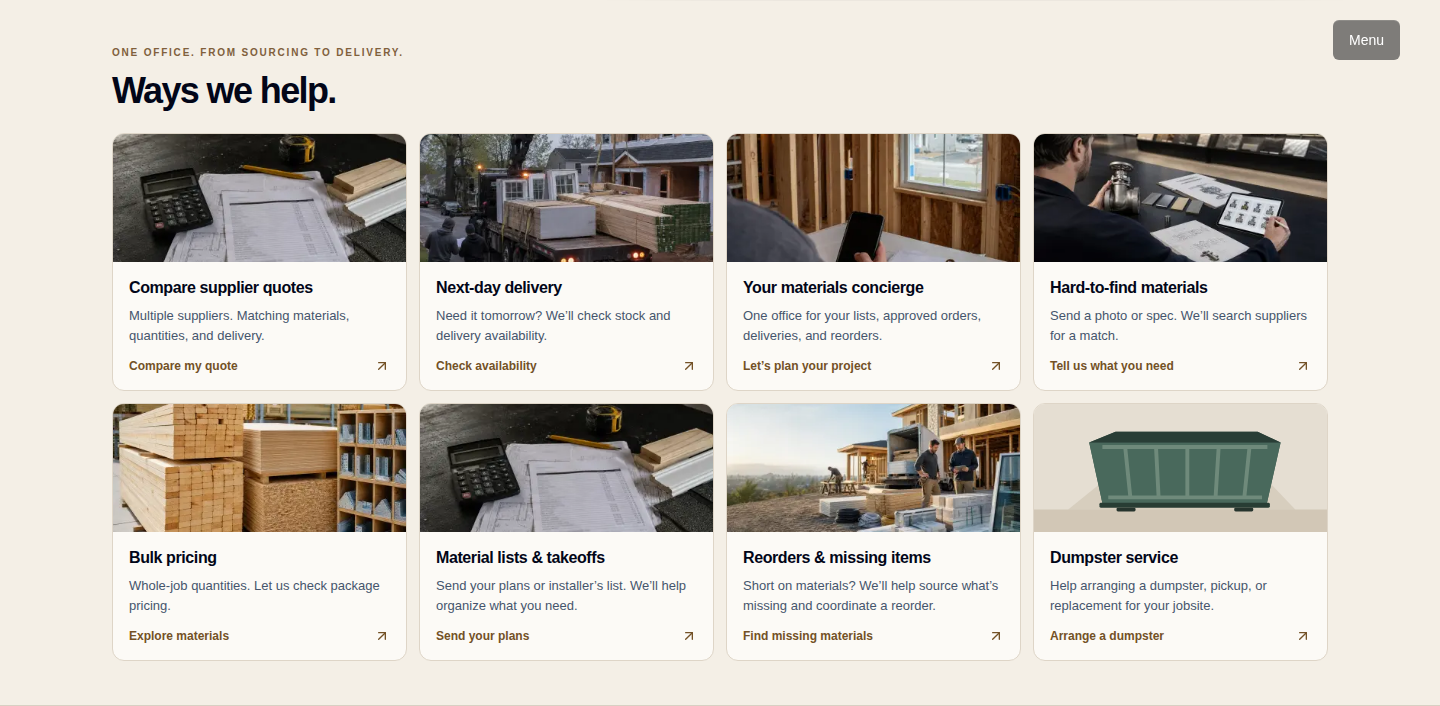
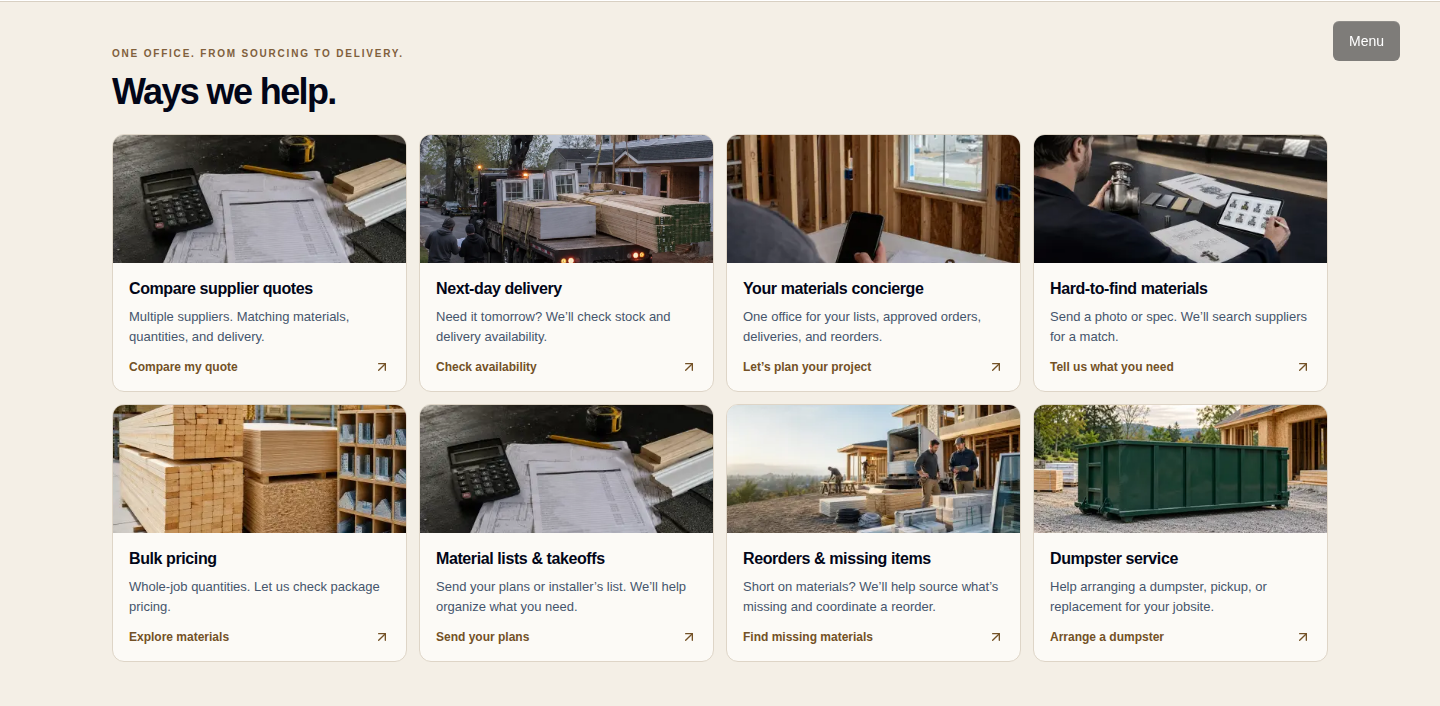
Simplify homepage media and shorten mobile hero

diff --git a/components/buildflow/homepage-concept-preview.tsx b/components/buildflow/homepage-concept-preview.tsx
@@ -2,7 +2,7 @@
 
 import Image from "next/image"
 import Link from "next/link"
-import { ArrowUpRight, CalendarDays, Check, ChevronDown, MapPin, MessageSquareText, Pause, Play, Send, Upload } from "lucide-react"
+import { ArrowUpRight, CalendarDays, Check, ChevronDown, MapPin, Pause, Play, Send, Upload } from "lucide-react"
 import { useEffect, useRef, useState } from "react"
 
 import { AVANTIA_QUO_CALLER_ID } from "@/lib/aura/phone-links"
@@ -29,7 +29,7 @@ const concepts = [
 ] as const
 
 const reviewHeroPhotos = [
-  { src: "/images/buildflow-homepage/hero-material-yard-v4.webp", position: "object-[66%_center]", label: "Framing lumber and structural materials" },
+  { src: "/images/buildflow-homepage/process-delivery-v4.webp", position: "object-[60%_center]", label: "Framing lumber delivered to a residential construction site" },
   { src: "/images/buildflow-homepage/hero-long-island-home-v4.webp", position: "object-[62%_center]", label: "A Long Island house under construction" },
   { src: "/images/buildflow-homepage/hero-exterior-materials-v4.webp", position: "object-[68%_center]", label: "Exterior building materials staged at a Long Island home" },
 ] as const
@@ -42,7 +42,7 @@ const reviewServices = [
   { title: "Bulk pricing", description: "Whole-job quantities. Let us check package pricing.", href: "/shop", image: "/images/buildflow-retail/framing-materials-yard.webp", action: "Explore materials" },
   { title: "Material lists & takeoffs", description: "Send your plans or installer’s list. We’ll help organize what you need.", href: "/request-quote", image: "/images/buildflow-homepage/service-beat-quote-v4.webp", action: "Send your plans" },
   { title: "Reorders & missing items", description: "Short on materials? We’ll help source what’s missing and coordinate a reorder.", href: "/request-quote", image: "/images/buildflow-retail/avantia-jobsite-material-delivery-v2.webp", action: "Find missing materials" },
-  { title: "Dumpster service", description: "Help arranging a dumpster, pickup, or replacement for your jobsite.", href: "/request-quote", image: "/images/buildflow-homepage/dumpster-service.svg", action: "Arrange a dumpster" },
+  { title: "Dumpster service", description: "Help arranging a dumpster, pickup, or replacement for your jobsite.", href: "/request-quote", image: "/images/buildflow-homepage/dumpster-service-v2.png", action: "Arrange a dumpster" },
 ] as const
 
 const reviewReasons = [
@@ -96,7 +96,6 @@ function MobileBookingBar() {
 }
 
 function HomepageReviewSections() {
-  const [videoRequested, setVideoRequested] = useState(false)
 
   return <>
     <section className="border-b border-[#e3ddd3] bg-[#f4efe6] px-6 py-12 text-slate-950" aria-labelledby="meeting-overview-heading">
@@ -141,31 +140,6 @@ function HomepageReviewSections() {
         Serving all 50 states
       </p>
     </div>
-
-    <section className="overflow-hidden bg-[#f4efe6] px-5 py-14 text-slate-950 [content-visibility:auto] [contain-intrinsic-size:auto_50rem] sm:px-8 sm:py-20" aria-labelledby="text-request-heading">
-      <div className="mx-auto grid max-w-6xl items-center gap-9 lg:grid-cols-[0.82fr_1.18fr] lg:gap-16">
-        <div className="max-w-lg">
-          <h2 id="text-request-heading" className="text-4xl font-semibold leading-[0.94] tracking-[-0.055em] text-balance sm:text-6xl">Tell us what you need.</h2>
-          <p className="mt-5 max-w-md text-sm font-semibold leading-6 text-slate-600 sm:text-base">Let’s identify what’s taking up your time and build a plan for what Avantia can handle for you. Start with a free 15-minute consultation.</p>
-          <Link href={CONSULTATION_PATH} className="mt-7 inline-flex min-h-12 items-center gap-2 border-b-2 border-slate-950 text-sm font-black text-slate-950 transition hover:border-[#1677ff] hover:text-[#1677ff]">
-            Schedule a Meeting <ArrowUpRight className="h-4 w-4" aria-hidden="true" />
-          </Link>
-        </div>
-
-        <div className="relative mx-auto w-full max-w-2xl overflow-hidden rounded-[2rem] border border-white/70 bg-slate-950 p-2 shadow-[0_35px_90px_rgba(15,23,42,.2)]">
-          <div className="relative aspect-[4/5] overflow-hidden rounded-[1.55rem] bg-slate-900 sm:aspect-[16/10]">
-            <video key={videoRequested ? "playing" : "poster"} autoPlay={videoRequested} muted loop playsInline preload="none" poster="/images/buildflow-homepage/process-text-request-v6.webp" className="h-full w-full object-cover object-center" aria-label="A contractor texts a same-day material list and receives the delivery at the jobsite">
-              {videoRequested ? <source src="/videos/homepage-material-process-v2.mp4" type="video/mp4" /> : null}
-            </video>
-            {!videoRequested ? <button type="button" onClick={() => setVideoRequested(true)} className="absolute inset-0 z-10 flex items-center justify-center bg-black/10 text-white focus-visible:outline-none focus-visible:ring-4 focus-visible:ring-inset focus-visible:ring-white/80" aria-label="Play material request video"><span className="inline-flex min-h-12 items-center gap-2 rounded-full border border-white/50 bg-black/65 px-5 text-sm font-bold backdrop-blur-md"><Play className="h-4 w-4 fill-current" />Play video</span></button> : null}
-            <div className="absolute inset-x-3 bottom-3 flex items-center gap-2 rounded-2xl border border-white/20 bg-black/45 px-4 py-3 text-sm font-bold text-white shadow-lg backdrop-blur-md sm:inset-x-auto sm:bottom-5 sm:left-5">
-              <MessageSquareText className="h-4 w-4 text-[#e7b85d]" aria-hidden="true" />
-              One contact for your material needs
-            </div>
-          </div>
-        </div>
-      </div>
-    </section>
 
     <section id="ways-we-help" className="border-t border-[#d8d0c3] bg-[#f4efe6] py-9 text-slate-950 sm:py-11" aria-labelledby="service-rail-heading">
       <div className="mx-auto max-w-7xl px-5 sm:px-8">
@@ -261,7 +235,7 @@ export function HomepageConceptPreview({ initialConceptId = 1, reviewOnly = fals
       <button type="button" onClick={() => setApproved(concept.id)} className="inline-flex min-h-10 shrink-0 items-center gap-2 bg-[#1677ff] px-3 text-xs font-bold text-white sm:px-5 sm:text-sm"><Check className="h-4 w-4" /><span className="hidden sm:inline">Approve</span> #{concept.id}</button>
     </div></header> : null}
 
-    <section className={`relative min-h-[100svh] overflow-hidden ${conceptId === 2 ? "bg-[#f4efe6] text-slate-950" : conceptId === 5 ? "bg-[#edf2f7] text-slate-950" : "bg-black"}`}>
+    <section className={`relative overflow-hidden ${conceptId === 2 ? "min-h-0 bg-[#f4efe6] text-slate-950 sm:min-h-[100svh]" : conceptId === 5 ? "bg-[#edf2f7] text-slate-950" : "bg-black"}`}>
       {reviewOnly ? <div className="absolute inset-y-0 right-0 h-full w-full overflow-hidden sm:w-[62%]" aria-label={reviewHeroPhotos[heroPhotoIndex].label} role="img">
         {reviewHeroPhotos.map((photo, index) => index === 0 || heroDeckReady ? <Image
           key={photo.src}
@@ -276,7 +250,7 @@ export function HomepageConceptPreview({ initialConceptId = 1, reviewOnly = fals
       </div> : <video key={videoSource} ref={videoRef} src={videoSource} poster={posterSource} autoPlay muted playsInline preload="auto" onEnded={() => setVideoIndex((current) => (current + 1) % concept.videos.length)} className={`absolute object-cover ${conceptId === 2 ? "inset-y-0 right-0 h-full w-full sm:w-[62%]" : conceptId === 4 ? "inset-y-0 right-0 h-full w-full lg:w-[68%]" : conceptId === 5 ? "inset-x-4 bottom-5 top-24 h-[calc(100%-7.25rem)] w-[calc(100%-2rem)] rounded-[2rem] sm:inset-x-[38%] sm:w-[60%]" : "inset-0 h-full w-full scale-[1.015]"}`} aria-hidden="true" />}
 
       {conceptId === 1 ? <><div className="absolute inset-0 bg-[linear-gradient(180deg,rgba(0,0,0,.15),rgba(0,0,0,.08)_40%,rgba(0,0,0,.84))]" /><div className="relative z-10 mx-auto flex min-h-[100svh] max-w-7xl flex-col justify-end px-5 pb-24 pt-24 sm:px-8 lg:px-12"><div className="max-w-3xl drop-shadow-[0_5px_28px_rgba(0,0,0,.65)]">{text}<Actions primary={concept.primary} secondary={concept.secondary} /><p className="mt-3 text-xs font-semibold text-white/65">No account. No obligation.</p></div></div></> : null}
-      {conceptId === 2 ? <><div className="absolute inset-0 bg-[linear-gradient(180deg,rgba(244,239,230,.04)_0%,rgba(244,239,230,.12)_20%,rgba(244,239,230,.94)_38%,#f4efe6_56%)] sm:bg-[linear-gradient(90deg,#f4efe6_0%,#f4efe6_44%,rgba(244,239,230,.97)_54%,rgba(244,239,230,.68)_67%,rgba(244,239,230,.18)_82%,rgba(244,239,230,.06)_100%)]" /><div className="relative z-10 flex min-h-[100svh] items-end px-5 pb-20 pt-[36svh] text-slate-950 sm:items-center sm:pb-0 sm:pt-16 sm:w-[54%] sm:px-10 lg:px-16"><div className="max-w-2xl">{text}<Actions primary={concept.primary} secondary={concept.secondary} dark compact={reviewOnly} /></div></div></> : null}
+      {conceptId === 2 ? <><div className="absolute inset-0 bg-[linear-gradient(180deg,rgba(244,239,230,.04)_0%,rgba(244,239,230,.12)_12%,rgba(244,239,230,.94)_27%,#f4efe6_42%)] sm:bg-[linear-gradient(90deg,#f4efe6_0%,#f4efe6_44%,rgba(244,239,230,.97)_54%,rgba(244,239,230,.68)_67%,rgba(244,239,230,.18)_82%,rgba(244,239,230,.06)_100%)]" /><div className="relative z-10 flex items-start px-5 pb-20 pt-[24svh] sm:min-h-[100svh] text-slate-950 sm:items-center sm:pb-0 sm:pt-16 sm:w-[54%] sm:px-10 lg:px-16"><div className="max-w-2xl">{text}<Actions primary={concept.primary} secondary={concept.secondary} dark compact={reviewOnly} /></div></div></> : null}
       {conceptId === 3 ? <><div className="absolute inset-0 bg-black/45" /><div className="absolute inset-x-0 top-[18%] h-3 bg-amber-400" /><div className="relative z-10 flex min-h-[100svh] flex-col items-center justify-center px-5 pt-20 text-center"><div className="max-w-5xl">{text}<div className="flex justify-center"><Actions primary={concept.primary} secondary={concept.secondary} /></div><p className="mt-4 font-mono text-xs uppercase tracking-[.15em] text-amber-300">Fast request intake · Human review</p></div></div></> : null}
       {conceptId === 4 ? <><div className="absolute inset-0 bg-[linear-gradient(90deg,#061d3b_0%,#061d3b_42%,rgba(6,29,59,.78)_66%,rgba(6,29,59,.18))]" /><div className="absolute inset-0 opacity-20 [background-image:linear-gradient(rgba(78,170,255,.3)_1px,transparent_1px),linear-gradient(90deg,rgba(78,170,255,.3)_1px,transparent_1px)] [background-size:32px_32px]" /><div className="relative z-10 flex min-h-[100svh] items-center px-5 pt-16 sm:px-10 lg:w-1/2 lg:px-16"><div className="max-w-2xl border-l-4 border-sky-400 pl-5 sm:pl-8">{text}<Actions primary={concept.primary} secondary={concept.secondary} /><div className="mt-5 grid max-w-md grid-cols-3 gap-2 text-center text-[10px] font-bold uppercase tracking-wide text-sky-200"><span className="border border-sky-300/25 p-2">Request</span><span className="border border-sky-300/25 p-2">Compare</span><span className="border border-sky-300/25 p-2">Deliver</span></div></div></div></> : null}
       {conceptId === 5 ? <><div className="absolute inset-0 bg-gradient-to-r from-[#edf2f7] via-[#edf2f7] to-transparent sm:w-[58%]" /><div className="relative z-10 flex min-h-[100svh] items-end px-5 pb-20 pt-24 sm:w-[50%] sm:items-center sm:px-10 lg:px-16"><div className="max-w-xl rounded-3xl bg-white/92 p-6 shadow-[0_25px_80px_rgba(15,23,42,.18)] backdrop-blur-xl sm:p-9">{text}<Actions primary={concept.primary} secondary={concept.secondary} dark /><p className="mt-4 text-xs font-bold text-slate-600">Local jobs · Real supplier follow-up</p></div></div></> : null}

diff --git a/docs/services-preview-20261029/HANDOFF.md b/docs/services-preview-20261029/HANDOFF.md
@@ -14,3 +14,6 @@ Added mobile-only bottom booking/WhatsApp bar after hero CTA scrolls above viewp
 
 ## Phone hero clarification
 User meant top hero photo, not service cards. Changed only mobile cream overlay to vertical transition with visible photo at top, cream beneath copy; mobile content lower with responsive padding. Desktop overlay/layout preserved. Hero phone screenshot visually reviewed, no horizontal overflow; targeted lint passed. Video removal not performed (earlier was a recommendation, clarification focused on photo). Preview only.
+
+## Media simplification preview after live5c9ef4ec
+Removed the entire duplicate consultation/video section and its player state. Primary hero now begins with delivery photo; mobile hero photo/content area shortened (24svh top spacing, natural height). Eight cards and booking bar retained. Dumpster illustration replaced with generated photographic-style asset dumpster-service-v2.png (illustrative, not claimed as actual Avantia job). Source generated via imagegen; local file retained. Phone hero visual reviewed, no video element; desktop/phone eight-card links/images/overflow and booking-bar regression passed, ESLint/diff passed. Preview only, not published.
